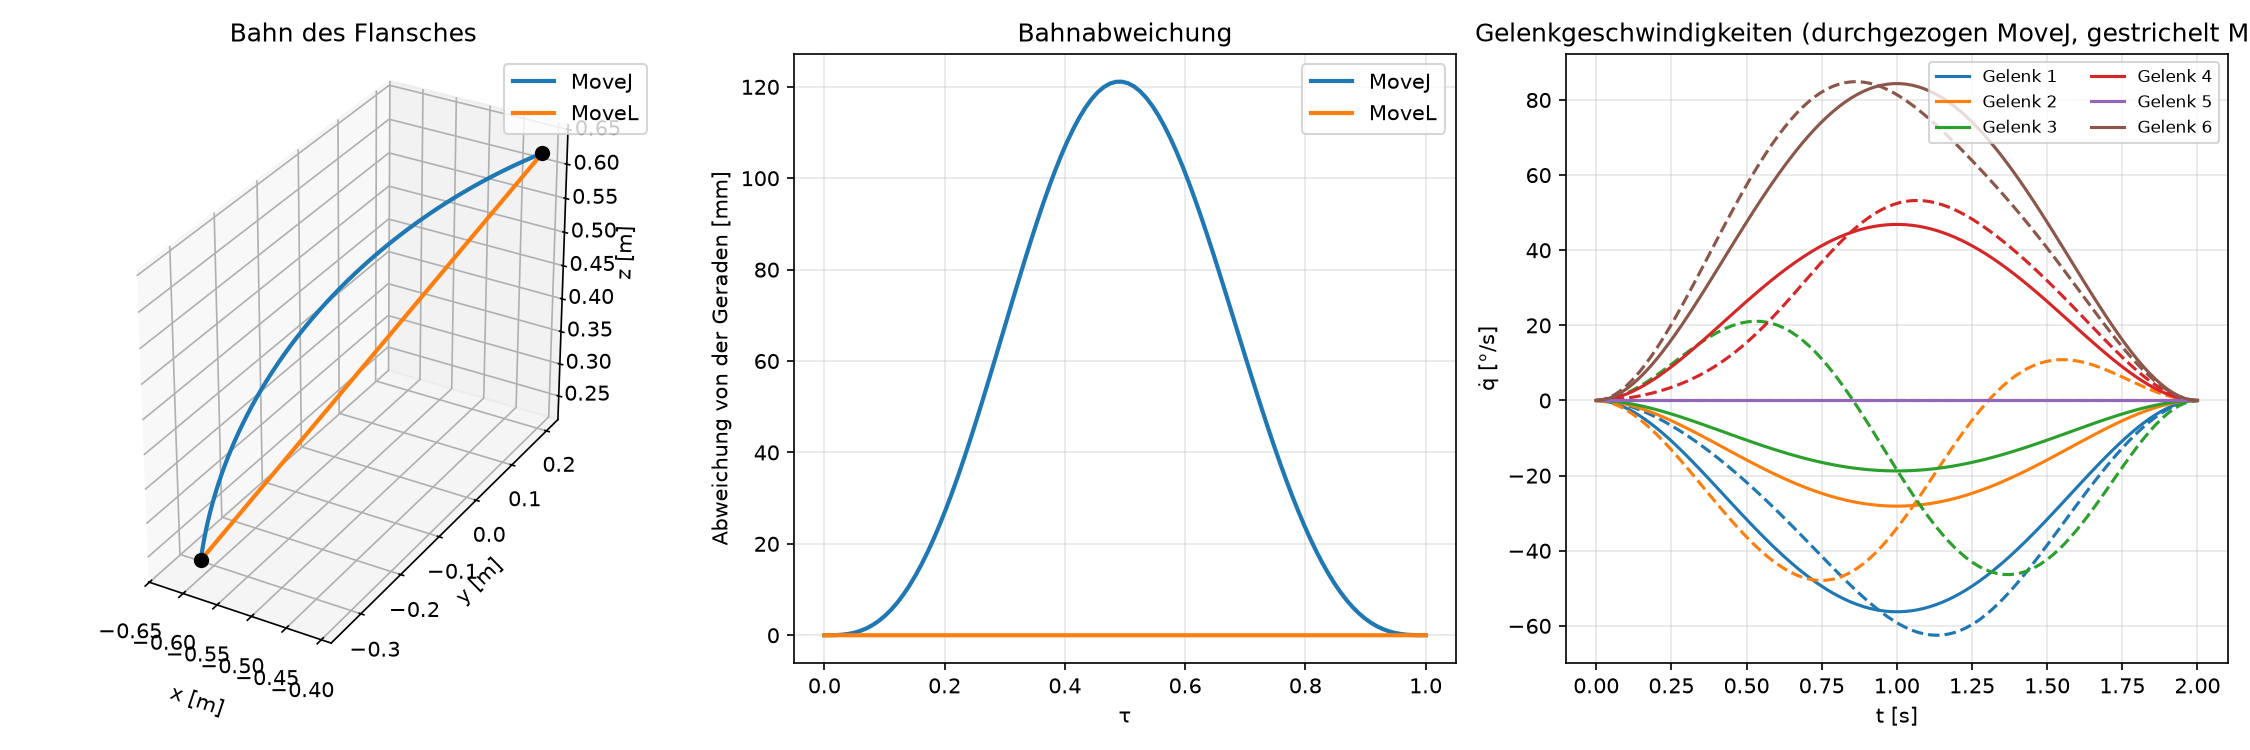
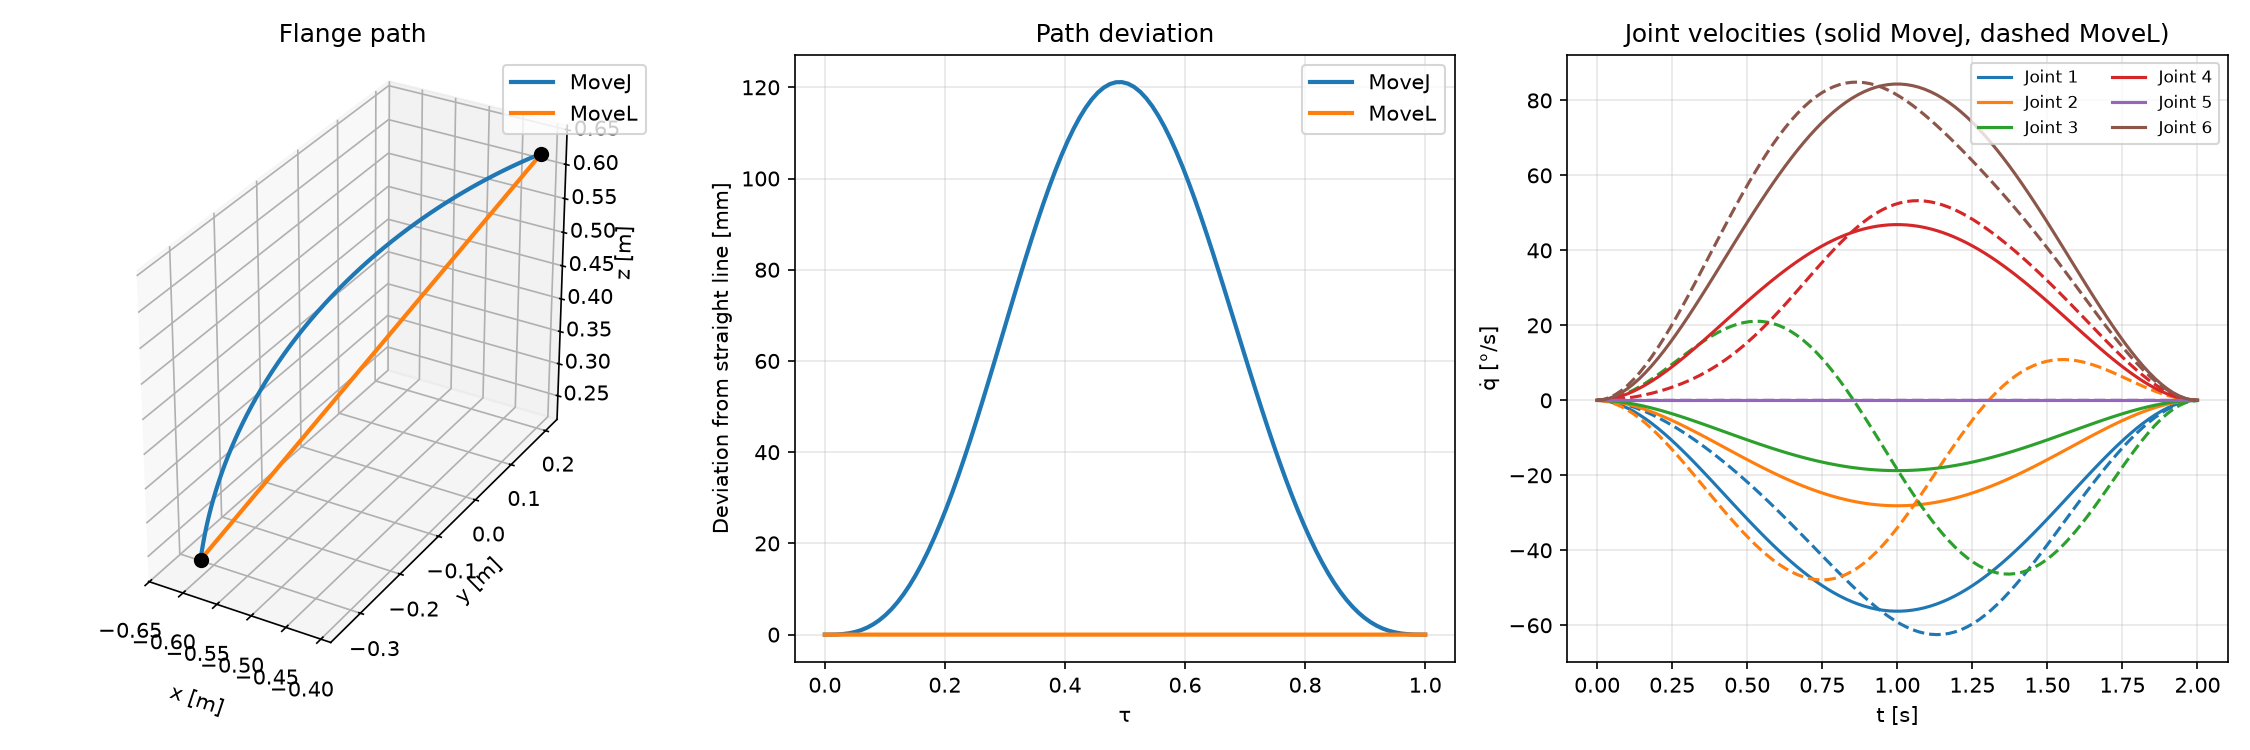
Translate figure labels to English
Axis titles, legend entries and the deviation label now match the language of the README. The figure is regenerated accordingly.

diff --git a/plot.py b/plot.py
@@ -38,21 +38,21 @@ ax.scatter(*Pj[0], c="k", s=40)
 ax.scatter(*Pj[-1], c="k", s=40)
 ax.set_aspect("equal")
 ax.set_xlabel("x [m]"); ax.set_ylabel("y [m]"); ax.set_zlabel("z [m]")
-ax.set_title("Bahn des Flansches")
+ax.set_title("Flange path")
 ax.legend()
 
 ax = fig.add_subplot(1, 3, 2)
 ax.plot(t / T, abweichung(Pj), lw=2, label="MoveJ")
 ax.plot(t / T, abweichung(Pl), lw=2, label="MoveL")
-ax.set_xlabel("τ"); ax.set_ylabel("Abweichung von der Geraden [mm]")
-ax.set_title("Bahnabweichung"); ax.grid(alpha=.3); ax.legend()
+ax.set_xlabel("τ"); ax.set_ylabel("Deviation from straight line [mm]")
+ax.set_title("Path deviation"); ax.grid(alpha=.3); ax.legend()
 
 ax = fig.add_subplot(1, 3, 3)
 for i in range(6):
-    linie = ax.plot(t, qd_j[:, i], lw=1.5, label=f"Gelenk {i+1}")
+    linie = ax.plot(t, qd_j[:, i], lw=1.5, label=f"Joint {i+1}")
     ax.plot(t, qd_l[:, i], lw=1.5, ls="--", color=linie[0].get_color())
 ax.set_xlabel("t [s]"); ax.set_ylabel("q̇ [°/s]")
-ax.set_title("Gelenkgeschwindigkeiten (durchgezogen MoveJ, gestrichelt MoveL)")
+ax.set_title("Joint velocities (solid MoveJ, dashed MoveL)")
 ax.grid(alpha=.3); ax.legend(fontsize=8, ncol=2)
 
 fig.tight_layout()
